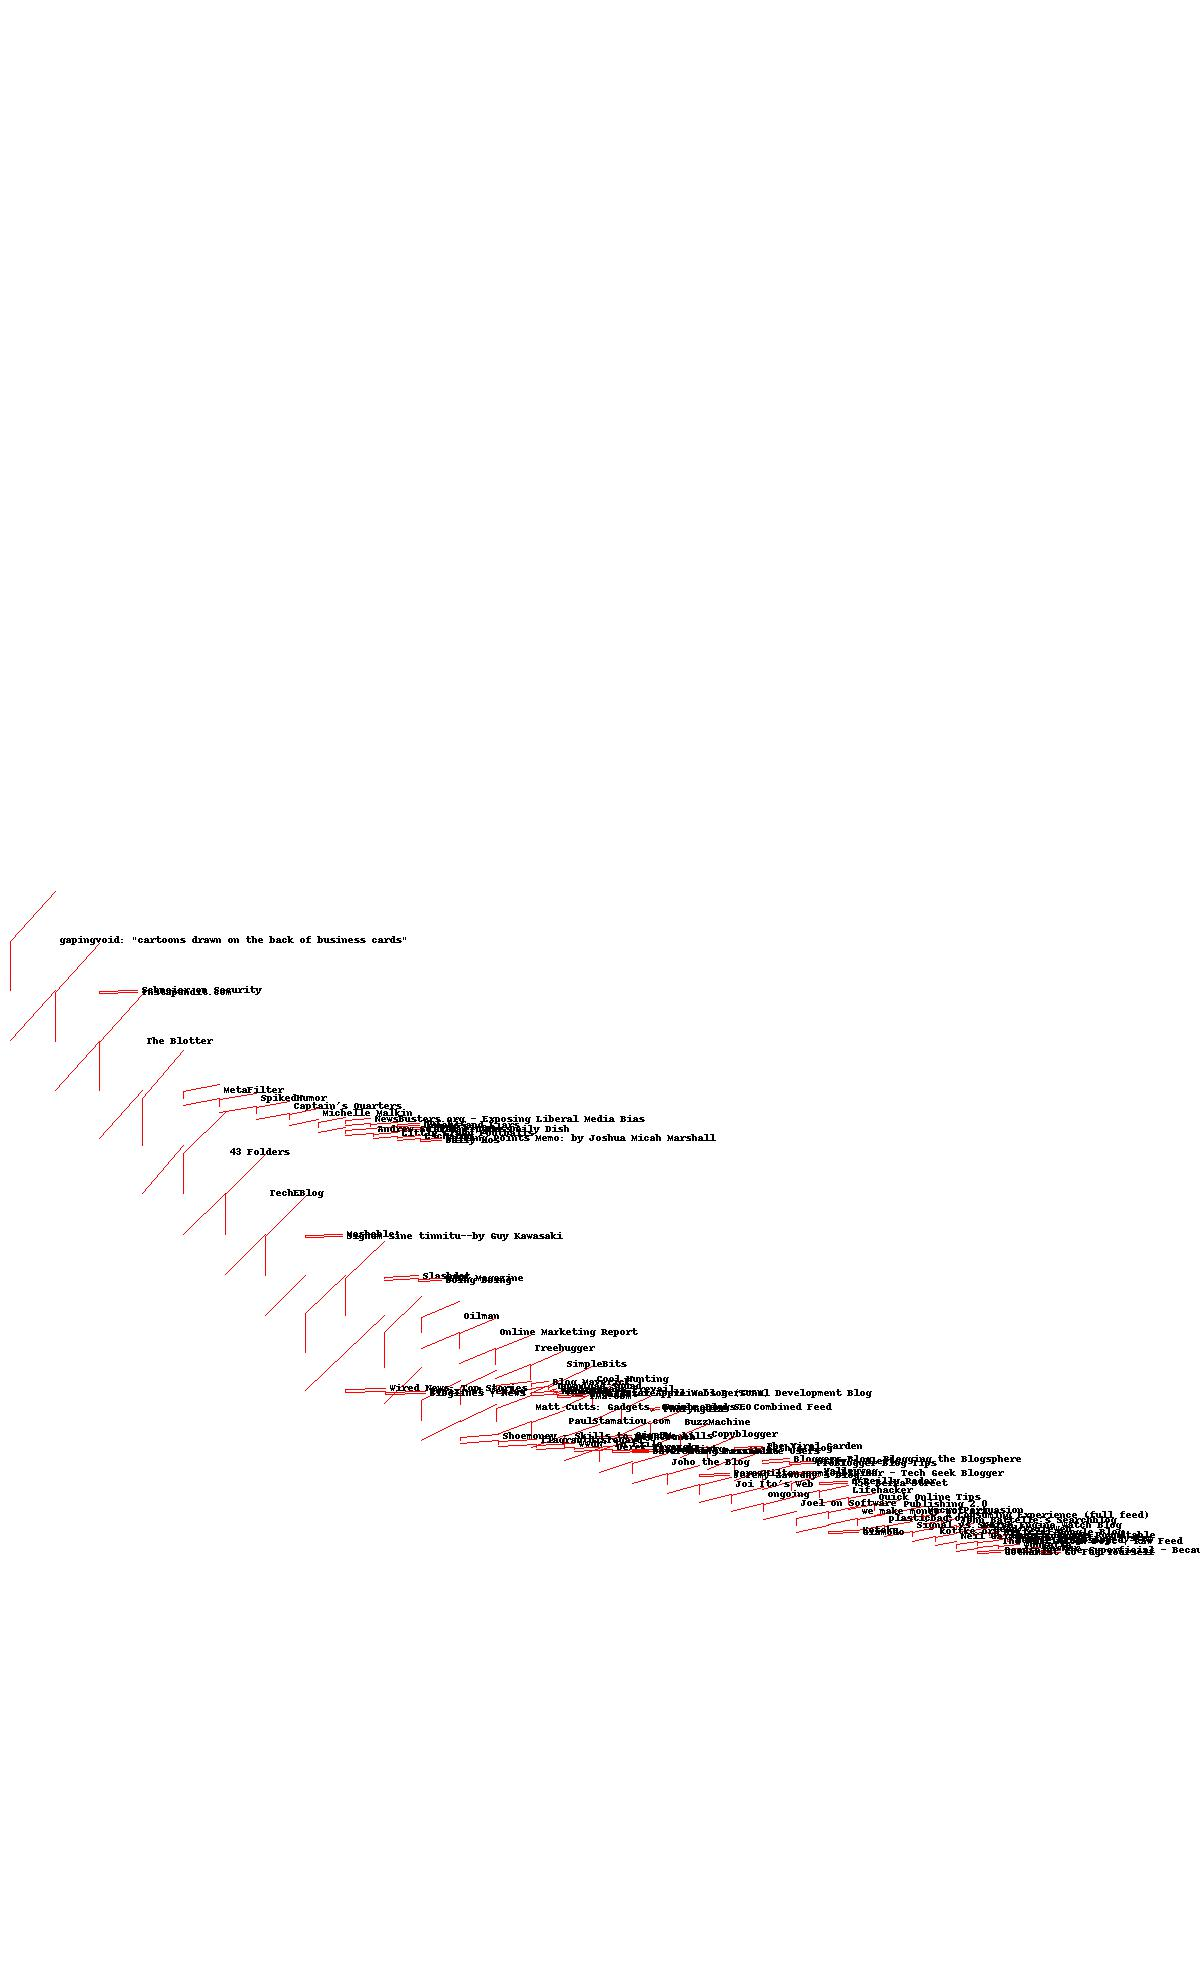
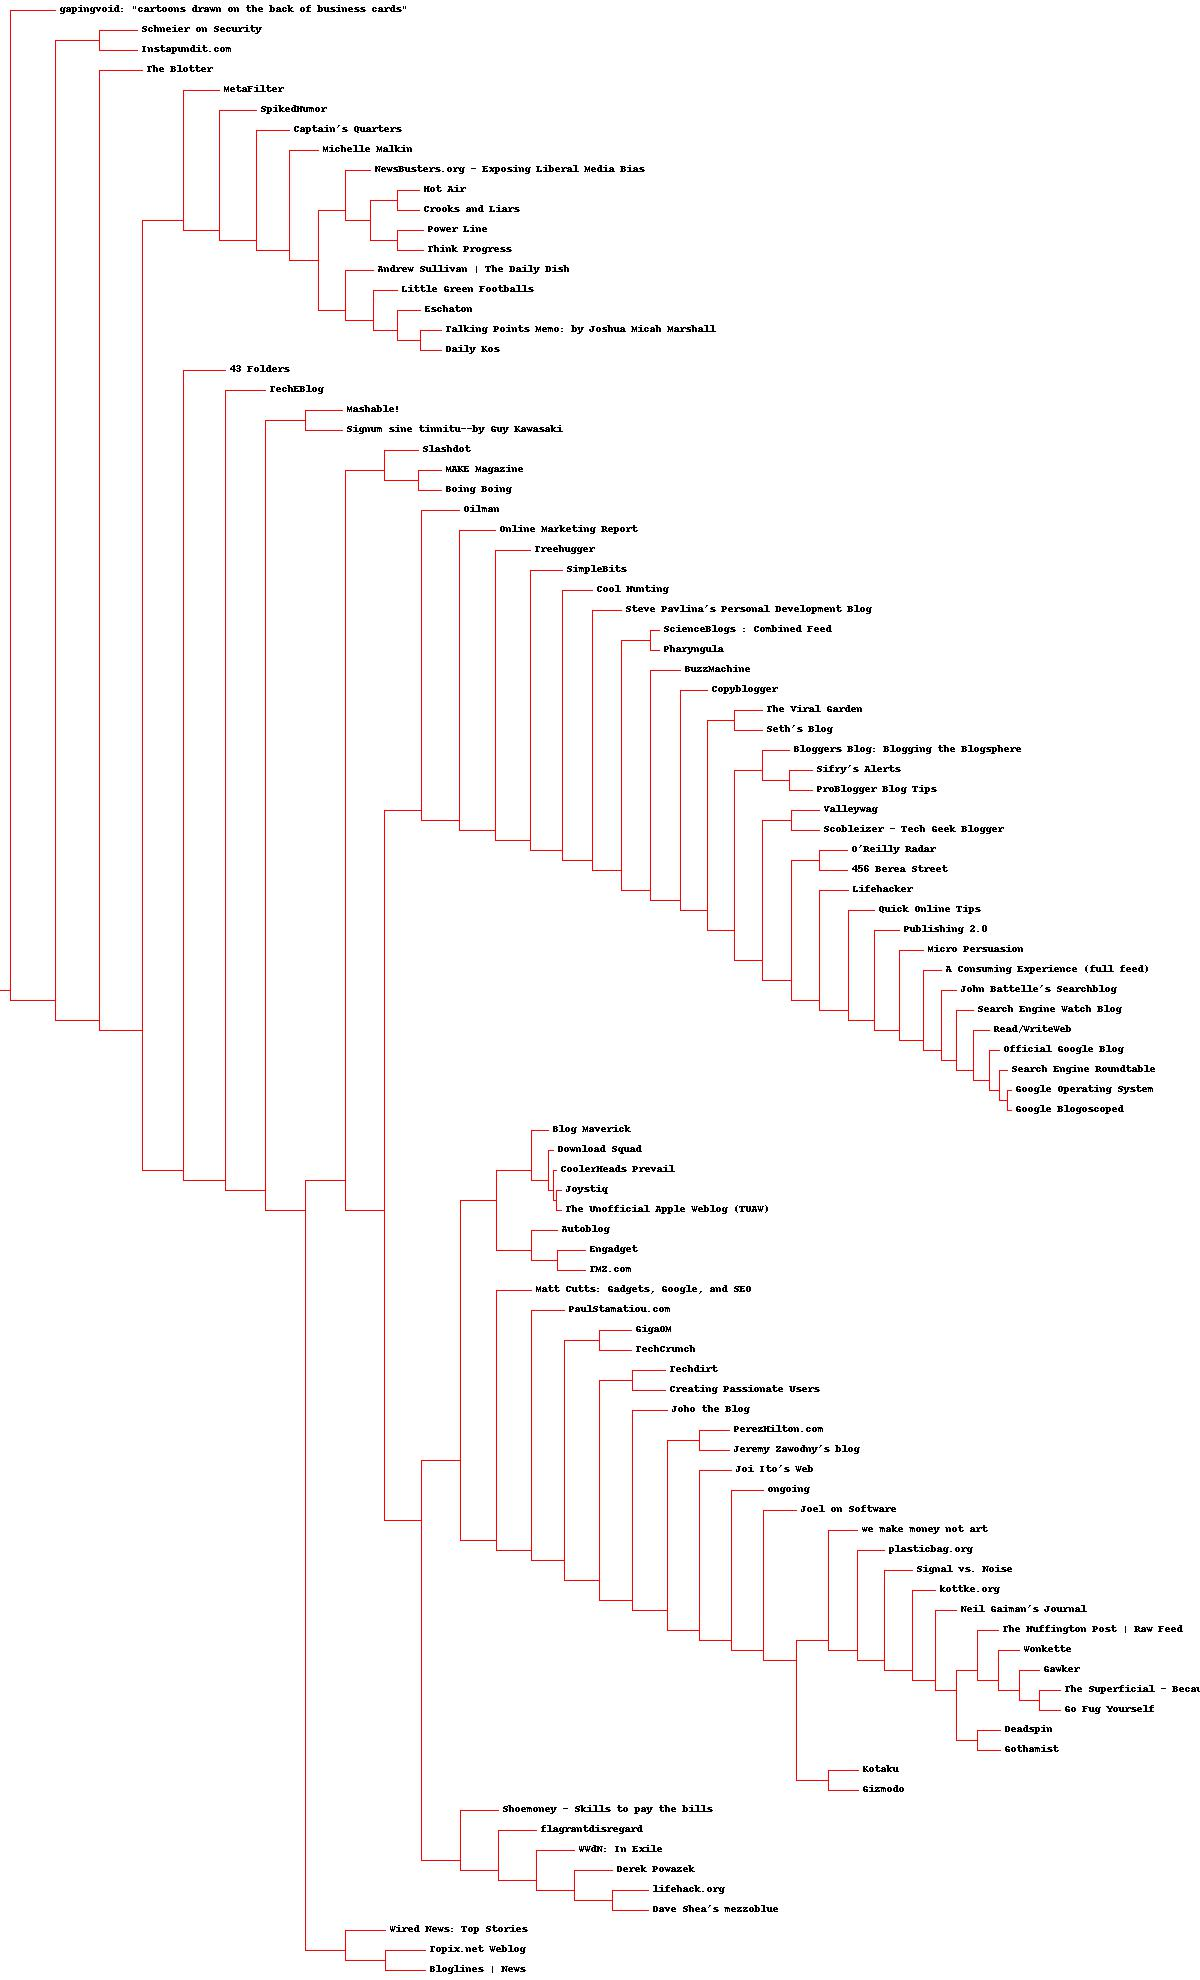
fixed bug with lines not displaying correctly

diff --git a/dendogram.py b/dendogram.py
@@ -2,21 +2,23 @@ from PIL import Image, ImageDraw
 
 def getHeight(clust):
     # Is this an endpoint? Then the height is 1
-    if (clust.left == None and clust.right == None):
+    if clust.left == None and clust.right == None:
         return 1
-    
+
     # otherwise the height is the same as the rest of the branches
     return getHeight(clust.left) + getHeight(clust.right)
 
+
 def getDepth(clust):
     # the distance of two endpoints is 0
-    if (clust.left == None and clust.right == None):
+    if clust.left == None and clust.right == None:
         return 0
 
     # The distance is greater than two sides plus its own distance
     return max(getDepth(clust.left), getDepth(clust.right)) + clust.distance
 
-def drawDendogram(clust, labels, jpeg='clusters.jpg'):
+
+def drawDendrogram(clust, labels, jpeg='clusters.jpg'):
     # Set height, width and depth
     h = getHeight(clust) * 20
     w = 1200
@@ -29,32 +31,33 @@ def drawDendogram(clust, labels, jpeg='clusters.jpg'):
     img = Image.new('RGB', (w, h), (255, 255, 255))
     draw = ImageDraw.Draw(img)
 
-    # Draw the first node
-    drawNode(draw, clust, 10, h/2, scaling, labels)
+    draw.line((0, h / 2, 10, h / 2), fill=(255, 0, 0))
+
+  # Draw the first node
+    drawNode(draw, clust, 10, h / 2, scaling, labels)
     img.save(jpeg, 'JPEG')
 
 def drawNode(draw, clust, x, y, scaling, labels):
     if clust.id < 0:
-        h1 = getHeight(clust.left)
-        h2 = getHeight(clust.right)
+        h1 = getHeight(clust.left) * 20
+        h2 = getHeight(clust.right) * 20
         top = y - (h1 + h2) / 2
         bottom = y + (h1 + h2) / 2
-
         # Line length
-        lineLength = clust.distance * scaling
-
+        ll = clust.distance * scaling
         # Vertical line from this cluster to children
-        draw.line((x, top + h1 / 2, x, bottom - h2 / 2), fill = (255, 0, 0))
+        draw.line((x, top + h1 / 2, x, bottom - h2 / 2), fill=(255, 0, 0))
 
         # Horizontal line to left item
-        draw.line((x, top + h1 / 2, x + lineLength, top - h2 / 2), fill = (255, 0, 0))
+        draw.line((x, top + h1 / 2, x + ll, top + h1 / 2), fill=(255, 0, 0))
 
         # Horizontal line to right item
-        draw.line((x, bottom + h1 / 2, x + lineLength, bottom - h2 / 2), fill = (255, 0, 0))
+        draw.line((x, bottom - h2 / 2, x + ll, bottom - h2 / 2), fill=(255, 0,
+                  0))
 
         # Call this function if it's not an endpoint
-        drawNode(draw, clust.left, x+lineLength, top+h1/2, scaling, labels)
-        drawNode(draw, clust.right, x+lineLength, bottom+h1/2, scaling, labels)
+        drawNode(draw, clust.left, x + ll, top + h1 / 2, scaling, labels)
+        drawNode( draw, clust.right, x + ll, bottom - h2 / 2, scaling, labels)
     else:
         # If this is an endpoint, draw the item label
         draw.text((x + 5, y - 7), labels[clust.id], (0, 0, 0))
@@ -64,4 +67,4 @@ from hclusters import readFile, hcluster
 blognames,words,data=readFile('blogdata.txt')
 clust=hcluster(data)
 
-drawDendogram(clust, blognames, jpeg='blogclust.jpg')
+drawDendrogram(clust, blognames, jpeg='blogclust.jpg')

diff --git a/hclusters.py b/hclusters.py
@@ -84,8 +84,3 @@ def printClust(clust, labels=None, n=0):
     # Now print the right and left branches
     if clust.left is not None: printClust(clust.left, labels=labels, n=n + 1)
     if clust.right is not None: printClust(clust.right, labels=labels, n=n + 1)
-
-
-blognames,words,data=readFile('blogdata.txt')
-clust=hcluster(data)
-printClust(clust,labels=blognames)
